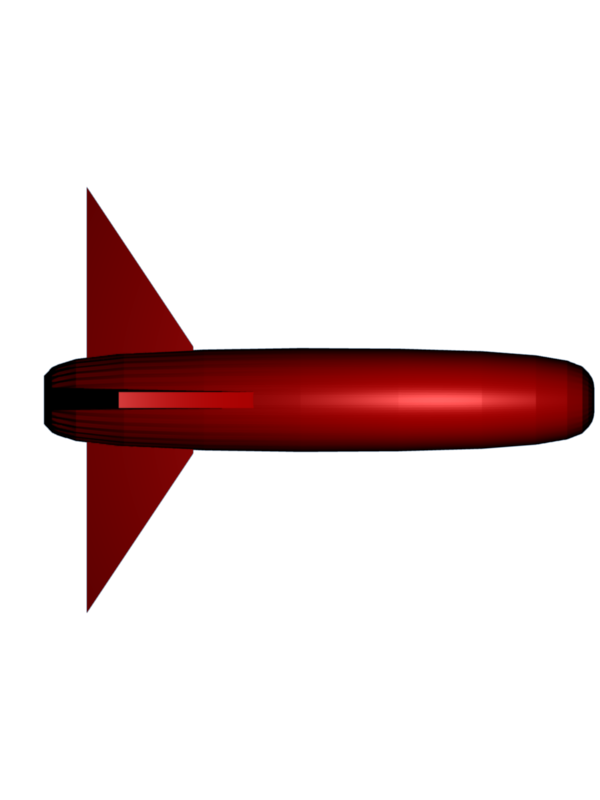
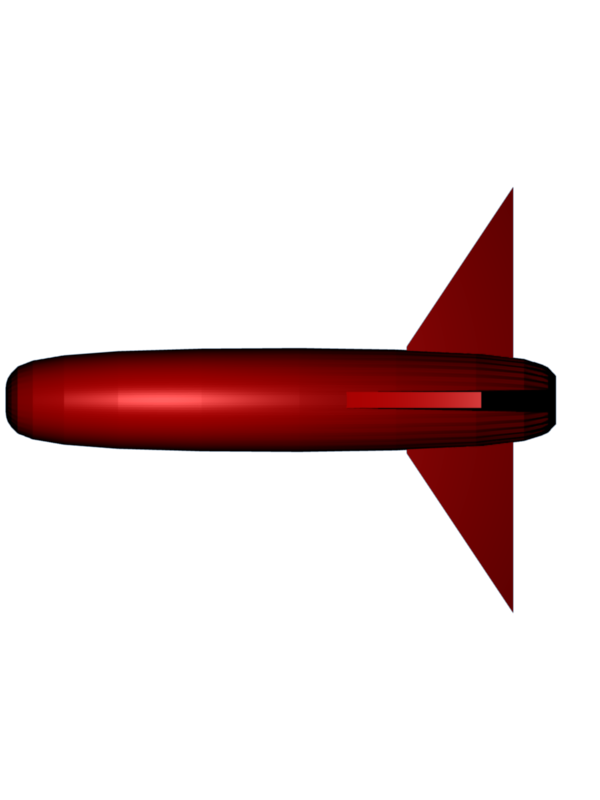
Added missiles image

Changed region(s): [[0.51, 0.2188, 1.0, 0.7812], [0.0, 0.2188, 0.48, 0.7812]]

diff --git a/src/cantTouchThis.py b/src/cantTouchThis.py
@@ -57,8 +57,13 @@ class Player(pygame.sprite.Sprite):
 class Enemy(pygame.sprite.Sprite):
     def __init__(self):
         super(Enemy,self).__init__()
-        self.surface = pygame.surface.Surface((20,20))
-        self.surface.fill(BLACK)
+
+        self.missile_picture = pygame.image.load("../assets/missiles/missile_mixed.png")
+        plane_picture_scale_x = 553
+        plane_picture_scale_y = 406
+        self.missile_picture = pygame.transform.scale(self.missile_picture,(plane_picture_scale_x//8, plane_picture_scale_y//8))
+        
+        self.surface = self.missile_picture.convert_alpha()
         self.rect = self.surface.get_rect(
             center=( random.randint(SCREEN_WIDTH + 20, SCREEN_WIDTH + 100),
                      random.randint(0, SCREEN_HEIGHT)
@@ -76,7 +81,7 @@ class Enemy(pygame.sprite.Sprite):
 
 #New event
 ADD_ENEMY = pygame.USEREVENT + 1
-pygame.time.set_timer(ADD_ENEMY, 100)
+pygame.time.set_timer(ADD_ENEMY, 500)
 
 #Clock set
 clock = pygame.time.Clock()
